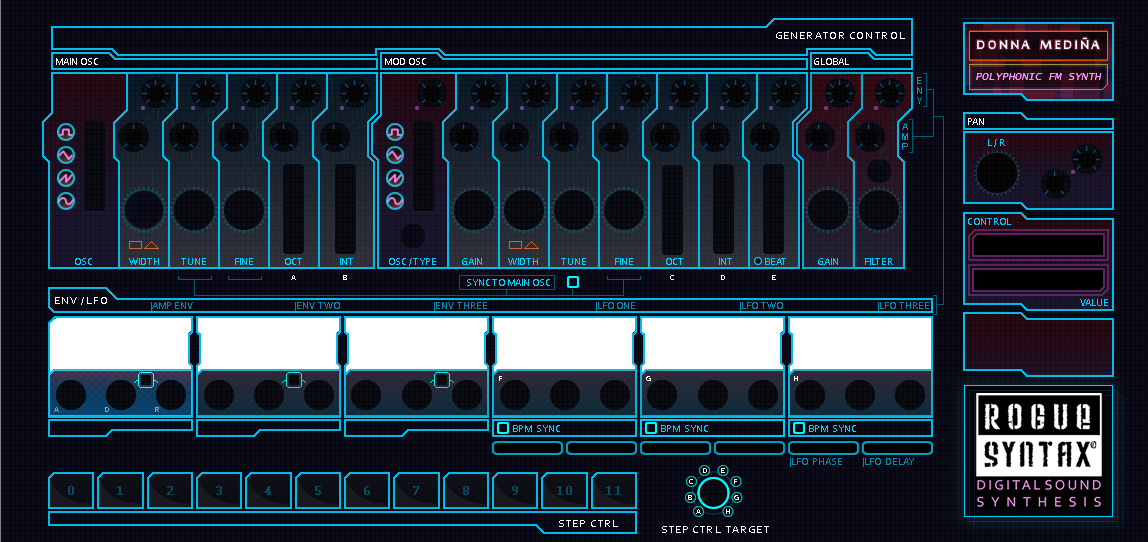
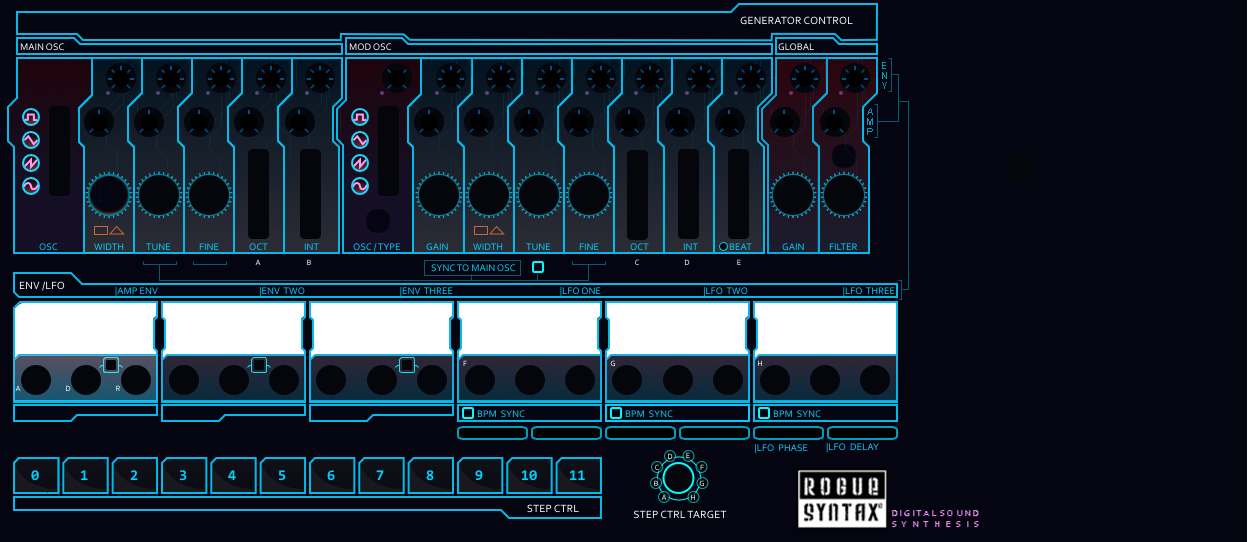
Panel art at the window size (1248x542 from the SVG, drawn at 0,0); title as its own image; PNG upload without the fixed copy buffer

diff --git a/source/NVGView.cpp b/source/NVGView.cpp
@@ -737,6 +737,9 @@ no viewindex at 153!*/
 		else if ((*viewListIter).get()->customRSViewName == "dmAboutWindow") {
 			setupPNG(viewListIter, DM_ABOUT_WINDOW);
 		}
+		else if ((*viewListIter).get()->customRSViewName == "dmTitle") {
+			setupPNG(viewListIter, DM_TITLE);
+		}
 
 	}
 
@@ -805,26 +808,18 @@ no viewindex at 153!*/
 
 		if ( images[intKey] < 1 ) {
 			//SharedPointer<IPlatformBitmap> cbit;
+			// The PNG bytes go to NanoVG directly. They used to be copied into a fixed 205433-byte
+			// array first, which a larger image (the 1248x542 panel art re-encodes bigger) overflowed.
 			cbuf = IPlatformBitmap::createMemoryPNGRepresentation((*theView).get()->getBackground()->getPlatformBitmap());
-			const size_t charSize = cbuf.size();
-			
-			//charBuffer = new unsigned char[charSize];
-			for (size_t i = 0; i < cbuf.size(); i++) {
-				charBuffer[i] = (unsigned char)cbuf[i];
-			}
-
-			images[intKey] = nvgCreateImageMem(vg, 0, charBuffer, (int)charSize);
+			if (!cbuf.empty())
+				images[intKey] = nvgCreateImageMem(vg, 0, reinterpret_cast<unsigned char*>(cbuf.data()), (int)cbuf.size());
 		}
 		
 	}
 
 	void NVGView::resetBKG() {
-		const size_t charSize = cbuf.size();
-		//charBuffer = new unsigned char[charSize];
-		for (size_t i = 0; i < cbuf.size(); i++) {
-			charBuffer[i] = (unsigned char)cbuf[i];
-		}
-		images[0] = nvgCreateImageMem(vg, 0, charBuffer, (int)charSize);
+		if (!cbuf.empty())
+			images[0] = nvgCreateImageMem(vg, 0, reinterpret_cast<unsigned char*>(cbuf.data()), (int)cbuf.size());
 	}
 
 	void NVGView::setupDisplayActive(CView* cvp) {
@@ -2694,12 +2689,12 @@ no viewindex at 153!*/
 		nvgFill(vg);
 	}
 
-	void NVGView::drawGrid() {
+	void NVGView::drawGrid(const ::editorLayout::ImageRect& img) {
 		using namespace ::editorLayout;
-		// Only outside the art: the art has transparent windows that the envelope/LFO displays
+		// Only outside the image: the art has transparent windows that the envelope/LFO displays
 		// (drawn before the background) show through, so the grid must not cover them.
-		const float ax0 = kArtOffsetX, ay0 = kArtOffsetY;
-		const float ax1 = kArtOffsetX + kArtWidth, ay1 = kArtOffsetY + kArtHeight;
+		const float ax0 = img.x, ay0 = img.y;
+		const float ax1 = img.x + img.w, ay1 = img.y + img.h;
 		const float W = kEditorWidth, H = kEditorHeight;
 		const float my0 = ay0 > 0 ? ay0 : 0, my1 = ay1 < H ? ay1 : H;
 		fillGrid(0, 0, W, ay0);                    // above
@@ -2710,13 +2705,13 @@ no viewindex at 153!*/
 
 	void NVGView::drawBkg(RData& reIn) {
 		using namespace ::editorLayout;
-		drawGrid();
+		drawGrid(kPanelImg);
 
-		// The panel art is drawn at its offset (editorLayout.h); the grid fills the rest.
+		// The panel image is drawn at kPanelImg (editorLayout.h); the grid fills the rest, if any.
 		NVGpaint imgPaint;
-		imgPaint = nvgImagePattern(vg, kArtOffsetX, kArtOffsetY, kArtWidth, kArtHeight, 0.0f, images[MAIN_ROW_BKG], 1.0);
+		imgPaint = nvgImagePattern(vg, kPanelImg.x, kPanelImg.y, kPanelImg.w, kPanelImg.h, 0.0f, images[MAIN_ROW_BKG], 1.0);
 		nvgBeginPath(vg);
-		nvgRect(vg, kArtOffsetX, kArtOffsetY, kArtWidth, kArtHeight);
+		nvgRect(vg, kPanelImg.x, kPanelImg.y, kPanelImg.w, kPanelImg.h);
 		nvgFillPaint(vg, imgPaint);
 		nvgFill(vg);
 
@@ -2776,12 +2771,12 @@ no viewindex at 153!*/
 			nvgText(vg, px + pw / 3.0f * (i + 0.5f), 506.0f, choLabels[i], NULL);
 	}
 
-	void NVGView::drawArtCrop(const ::editorLayout::column::Rect& src, float dx, float dy) {
-		using namespace ::editorLayout;
-		// src is in art coordinates; place the art so that src lands at (dx, dy).
-		NVGpaint p = nvgImagePattern(vg, dx - src.x, dy - src.y, kArtWidth, kArtHeight, 0.0f, images[MAIN_ROW_BKG], 1.0f);
+	void NVGView::drawImageAt(int image, float x, float y, float w, float h) {
+		if (images[image] < 1)
+			return;
+		NVGpaint p = nvgImagePattern(vg, x, y, w, h, 0.0f, images[image], 1.0f);
 		nvgBeginPath(vg);
-		nvgRect(vg, dx, dy, src.w, src.h);
+		nvgRect(vg, x, y, w, h);
 		nvgFillPaint(vg, p);
 		nvgFill(vg);
 	}
@@ -3157,7 +3152,7 @@ no viewindex at 153!*/
 
 		// 1. Cover the art's old column (title, pan, control, build info, logo) with grid.
 		const float blankX = artX(kBlankArtX0);
-		fillGrid(blankX, 0, (kArtOffsetX + kArtWidth) - blankX, kEditorHeight);
+		fillGrid(blankX, 0, (kPanelImg.x + kPanelImg.w) - blankX, kEditorHeight);
 
 		// 2. One continuous frame: chamfered top-right and bottom-left corners, like the art's boxes.
 		const float x0 = kX0, x1 = kX1, y0 = kTitle.y0, y1 = kFx.y1, c = 10.0f;
@@ -3192,8 +3187,10 @@ no viewindex at 153!*/
 		const float lx = x0 + 9;  // label / content left edge
 		const float rx = x1 - 9;  // content right edge
 
-		// 3. Title (from the art)
-		drawArtCrop(kTitleArt, floorf(kCenterX - kTitleArt.w * 0.5f), floorf(kTitle.y0 + (kTitle.h() - kTitleArt.h) * 0.5f));
+		// 3. Title (dm_title.png: cut from the original art, which had it at kTitleArt; the 1248 panel
+		// image no longer has the old right column)
+		drawImageAt(DM_TITLE, floorf(kCenterX - kTitleArt.w * 0.5f), floorf(kTitle.y0 + (kTitle.h() - kTitleArt.h) * 0.5f),
+		            kTitleArt.w, kTitleArt.h);
 
 		// 4. Preset bar: < name > SAVE RND (drawPresetBar; PresetBarView handles the mouse)
 		drawInset(lx, kPreset.y0 + 3, rx - lx, kPreset.h() - 6, kColDimFrame);
@@ -3360,11 +3357,11 @@ no viewindex at 153!*/
 			using namespace ::editorLayout;
 			// The about art is the same size as the panel art; fill the space around it with the grid
 			// so controls added outside the art do not show through.
-			drawGrid();
+			drawGrid(kAboutImg);
 			NVGpaint imgPaint;
-			imgPaint = nvgImagePattern(vg, kArtOffsetX, kArtOffsetY, kArtWidth, kArtHeight, 0.0f, images[DM_ABOUT_WINDOW], 1.0);
+			imgPaint = nvgImagePattern(vg, kAboutImg.x, kAboutImg.y, kAboutImg.w, kAboutImg.h, 0.0f, images[DM_ABOUT_WINDOW], 1.0);
 			nvgBeginPath(vg);
-			nvgRect(vg, kArtOffsetX, kArtOffsetY, kArtWidth, kArtHeight);
+			nvgRect(vg, kAboutImg.x, kAboutImg.y, kAboutImg.w, kAboutImg.h);
 			nvgFillPaint(vg, imgPaint);
 			nvgFill(vg);
 			nvgClosePath(vg);

diff --git a/source/editorLayout.h b/source/editorLayout.h
@@ -1,25 +1,31 @@
 #pragma once
 // Editor geometry shared by the controller, NVGViewController and NVGView.
 //
-// The editor window is kEditorWidth x kEditorHeight. The painted panel art (resources/bkg1.png and
-// dm_about_window.png, both 1148x542) is drawn at (kArtOffsetX, kArtOffsetY), so the art can be moved
-// without re-exporting it. The control positions in vstgui.uidesc are in window coordinates and were
-// shifted by the same offset when it was introduced (2026-11-13: -35,-15, window widened to 1248).
-// Coordinates written for the art (hard-coded positions in NVGView) are converted with artX()/artY().
+// The editor window is kEditorWidth x kEditorHeight. The original panel art is 1148x542; it was
+// moved by (kArtOffsetX, kArtOffsetY) = (-35, -15) when the window was widened to 1248 (2026-11-13).
+// Positions measured on the original art (hard-coded in NVGView) are converted to window
+// coordinates with artX()/artY(); the control positions in vstgui.uidesc are window coordinates.
 //
-// If the background art is re-exported at the window size with the panels already moved, set the
-// offsets to 0 and kArtWidth/kArtHeight to the new image size. Keep the offsets multiples of 5 so the
-// art's 5 px grid lines up with the procedural grid drawn around it (NVGView::drawBkg).
+// Images:
+// - the panel image (resources/bkg1.png) was re-exported at the window size with the panels already
+//   moved (2026-11-16, from fwrksrc/svg): drawn at kPanelImg* (0,0 1248x542);
+// - the about image (dm_about_window.png) is still the original art: drawn at kAboutImg*.
+// Keep image offsets multiples of 5 so the art's 5 px grid lines up with the procedural grid drawn
+// around it (NVGView::drawBkg).
 
 namespace editorLayout {
 
 constexpr int kEditorWidth = 1248;
 constexpr int kEditorHeight = 542;
 
-constexpr int kArtWidth = 1148;
+constexpr int kArtWidth = 1148;  // original art size
 constexpr int kArtHeight = 542;
-constexpr int kArtOffsetX = -35;
+constexpr int kArtOffsetX = -35;  // original art -> window
 constexpr int kArtOffsetY = -15;
+
+struct ImageRect { int x, y, w, h; };
+constexpr ImageRect kPanelImg {0, 0, 1248, 542};                              // bkg1.png
+constexpr ImageRect kAboutImg {kArtOffsetX, kArtOffsetY, kArtWidth, kArtHeight};  // dm_about_window.png
 
 // Convert a position in the original 1148x542 art to window coordinates.
 constexpr float artX (float x) { return x + kArtOffsetX; }

diff --git a/source/NVGView.h b/source/NVGView.h
@@ -545,7 +545,6 @@ class NVGView : public COpenGLView, public Animation::IAnimationTarget, public R
 		//BaseController* baseController;
 		bool regKeyLegit = true;
 		PNGBitmapBuffer cbuf;
-		unsigned char charBuffer[205433] = { 0 };
 		char* charBuffy;
 		bool* isCreatedPtr = nullptr;
 		void resetBKG();
@@ -1044,10 +1043,11 @@ class NVGView : public COpenGLView, public Animation::IAnimationTarget, public R
 		const int MAIN_ROW_BKG = 10;
 		const int DM_ABOUT_WINDOW = 11;
 		const int GRID_TILE = 12;   // 5x5 repeating tile of the art's background grid (drawBkg)
+		const int DM_TITLE = 13;    // "DONNA MEDINA" title, cut from the original art (dm_title.png, 143x63)
 
 		// Fills the editor outside the art with the art's background grid (the area the wider
 		// window adds around the 1148x542 art, see editorLayout.h).
-		void drawGrid();
+		void drawGrid(const ::editorLayout::ImageRect& img);
 		// Fills a rectangle with the art's grid (aligned to the window origin like the art).
 		void fillGrid(float x, float y, float w, float h);
 
@@ -1069,7 +1069,7 @@ class NVGView : public COpenGLView, public Animation::IAnimationTarget, public R
 		std::chrono::steady_clock::time_point voiceViewTime;
 		bool voiceViewTimeValid = false;
 		void drawColumnSectionLabel(float x, float y, const char* text);
-		void drawArtCrop(const ::editorLayout::column::Rect& src, float dx, float dy);
+		void drawImageAt(int image, float x, float y, float w, float h);
 		void drawKnobWell(const ::editorLayout::column::Rect& knob, int ticks);
 		void drawInset(float x, float y, float w, float h, NVGcolor border);
 

diff --git a/docs/04-gui.md b/docs/04-gui.md
@@ -4,7 +4,7 @@ Read, not run. Only the editor lifecycle has been traced so far.
 
 ## Layout (2026-11-13)
 - Editor size and art placement live in `source/editorLayout.h` (`editorLayout::kEditorWidth/Height`, `kArtOffsetX/Y`, `artX()/artY()`). The window is 1248x542.
-- The panel art (`resources/bkg1.png`, 1148x542, bitmap `BKG1.png`) is drawn at (-35,-15) by `NVGView::drawBkg`; the about art (`dm_about_window.png`) the same way. `NVGView::drawGrid` fills the area outside the art with the art's 5 px grid. It must stay outside the art: the art has transparent windows that the envelope/LFO displays (drawn before the background) show through.
+- The panel image (`resources/bkg1.png`, bitmap `BKG1.png`) is 1248x542 since 2026-11-16: re-exported from `fwrksrc/svg` with the panels already moved, drawn at 0,0 (`editorLayout::kPanelImg`). Hard-coded positions measured on the original 1148x542 art still go through `artX()/artY()` (-35,-15). The about art (`dm_about_window.png`) is still the original and drawn at -35,-15 (`kAboutImg`). The new image has no old right column; the title is `resources/dm_title.png` (cut from the original art), drawn by `drawRightColumn`. `NVGView::drawGrid(img)` fills the area outside an image with the art's 5 px grid. It must stay outside the art: the art has transparent windows that the envelope/LFO displays (drawn before the background) show through. PNGs go to NanoVG straight from the encoded buffer (`setupPNG`; a fixed 205433-byte copy buffer used to be there, which a larger image overflows).
 - Control positions in `vstgui.uidesc` are window coordinates; all controls in template `basicControlls1` were moved by (-35,-15) at the same time. The `#mainRowBkg` and `#dmAboutWindow` views only hold bitmaps; their positions are not used.
 - Positions written against the art in `NVGView` (envelope/LFO display origins, beat-mod dot, CONTROL readout text, BUILD INFO, registration box, about text) go through `artX()/artY()`.
 - If the art is re-exported at window size with the panels moved, set the offsets to 0.
